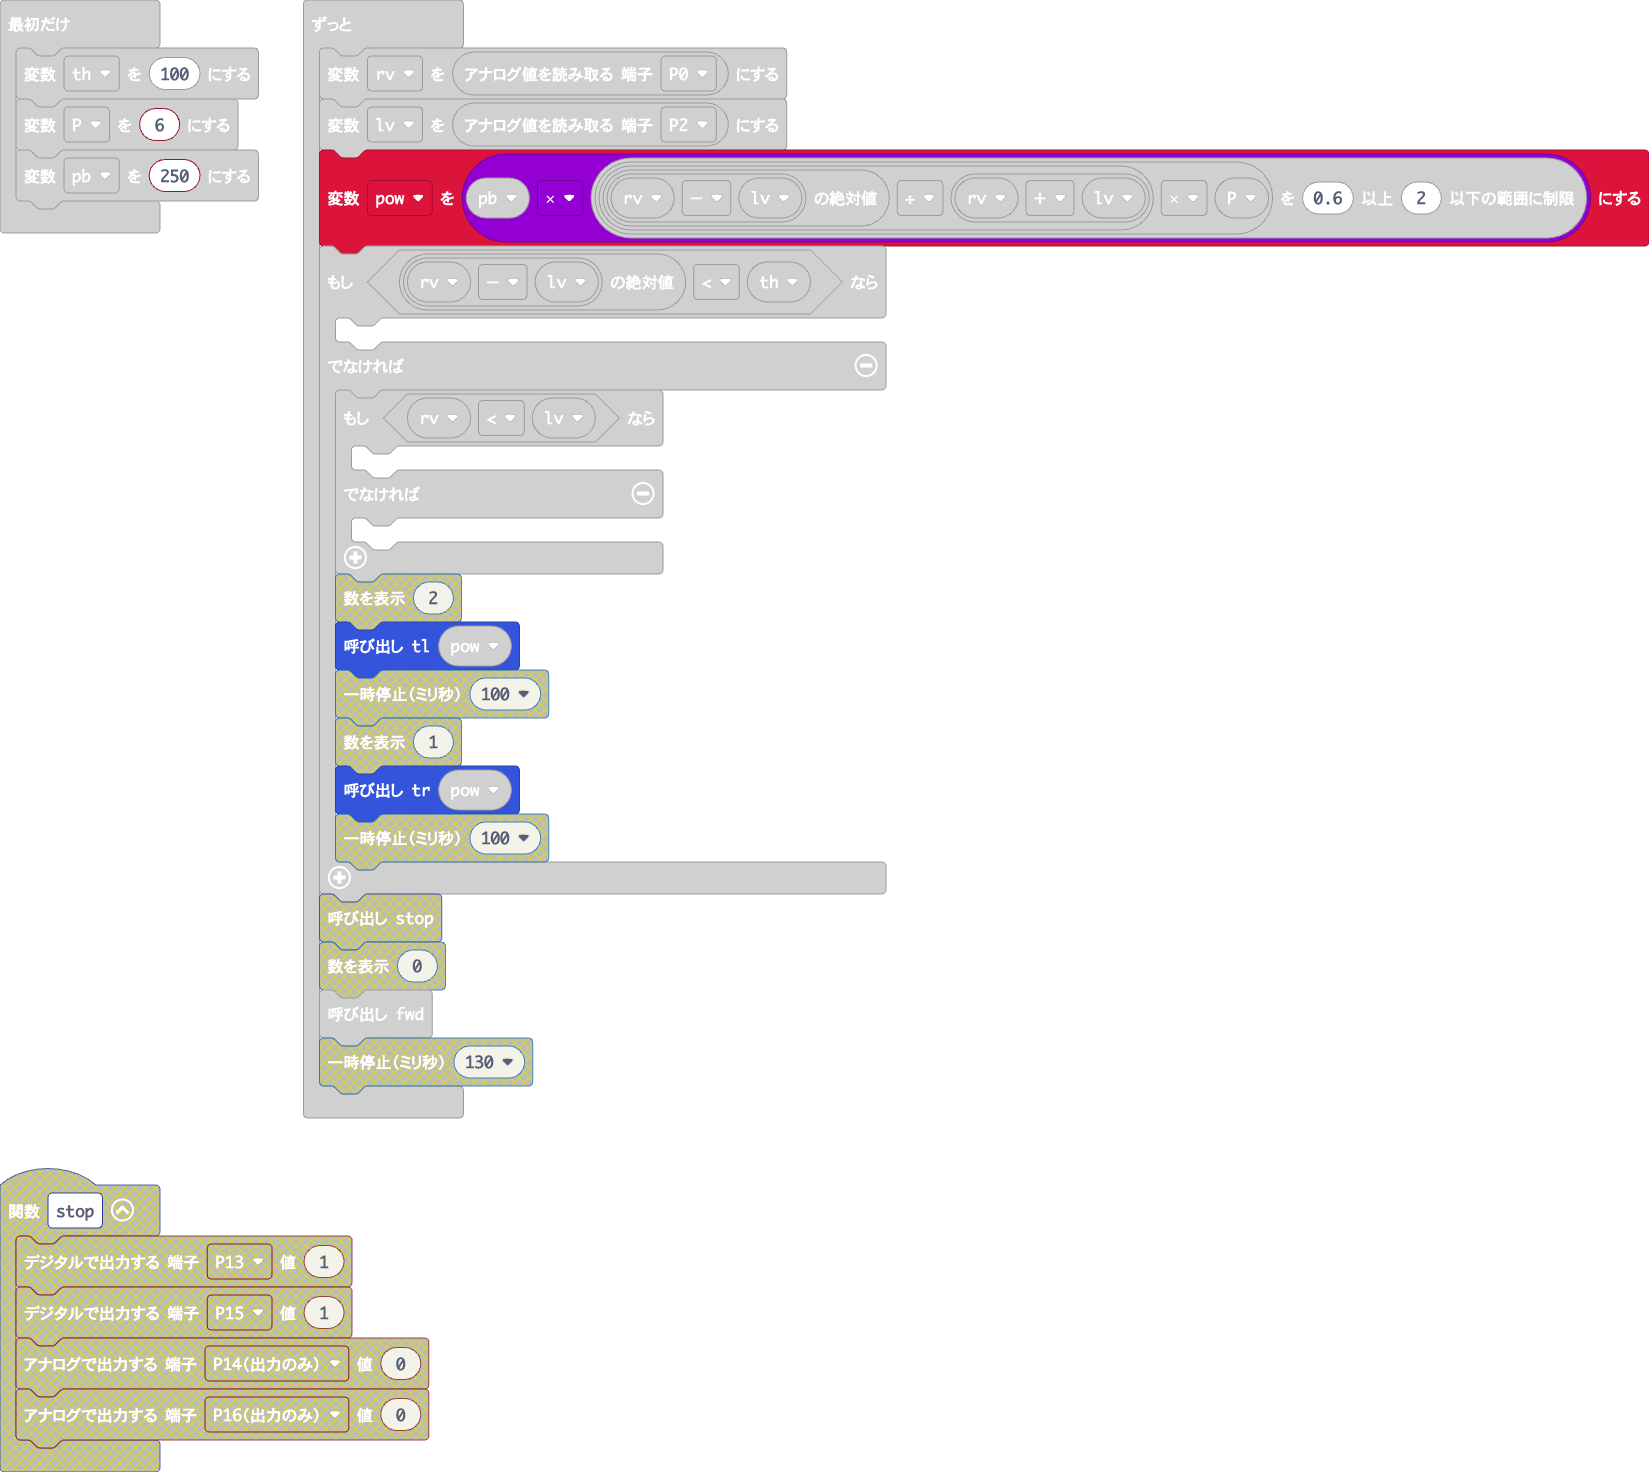
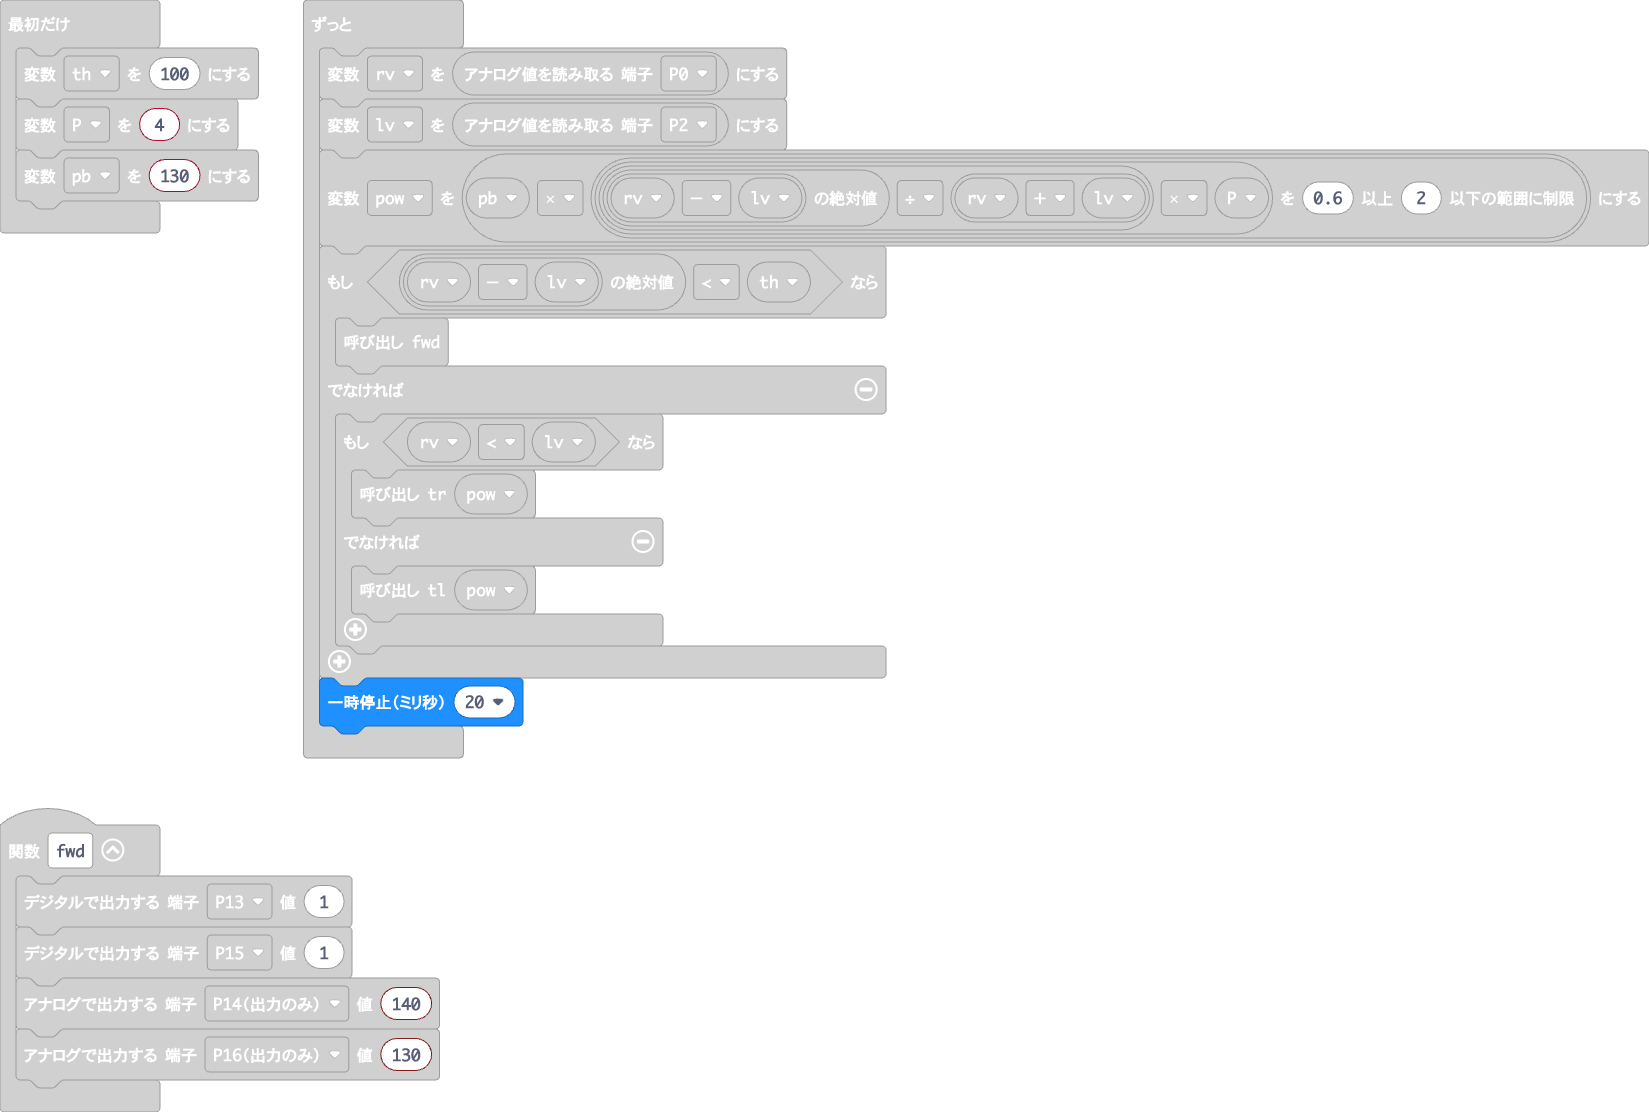
to set wait time, delta T

Changed region(s): [[0.0, 0.0, 1.0, 1.0], [0.0, 0.0, 0.1546, 0.214]]

diff --git a/main.ts b/main.ts
@@ -1,8 +1,8 @@
 function fwd () {
     pins.digitalWritePin(DigitalPin.P13, 1)
     pins.digitalWritePin(DigitalPin.P15, 1)
-    pins.analogWritePin(AnalogPin.P14, 160)
-    pins.analogWritePin(AnalogPin.P16, 150)
+    pins.analogWritePin(AnalogPin.P14, 140)
+    pins.analogWritePin(AnalogPin.P16, 130)
 }
 function tr (pow: number) {
     pins.digitalWritePin(DigitalPin.P13, 1)
@@ -20,8 +20,8 @@ let lv = 0
 let rv = 0
 let pow = 0
 let th = 100
-let P = 6
-let pb = 250
+let P = 4
+let pb = 130
 basic.forever(function () {
     rv = pins.analogReadPin(AnalogPin.P0)
     lv = pins.analogReadPin(AnalogPin.P2)
@@ -35,4 +35,5 @@ basic.forever(function () {
             tl(pow)
         }
     }
+    basic.pause(20)
 })
